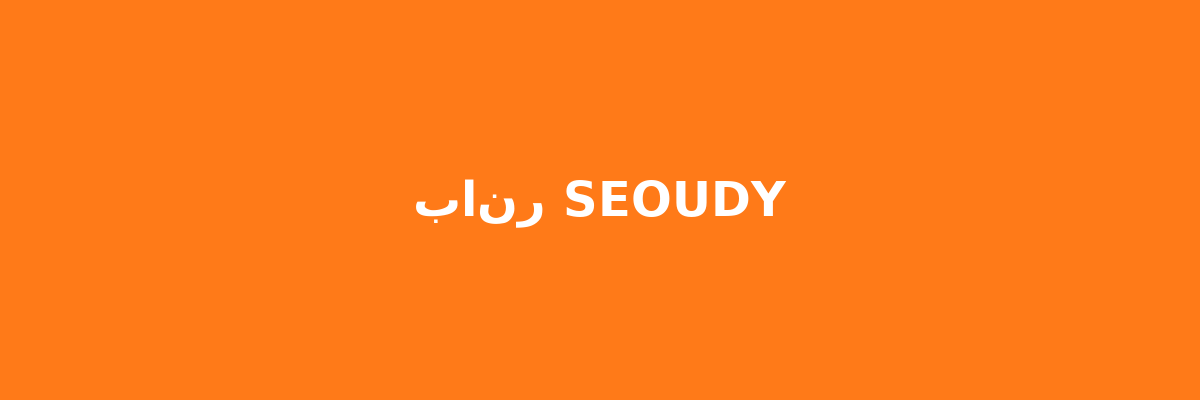
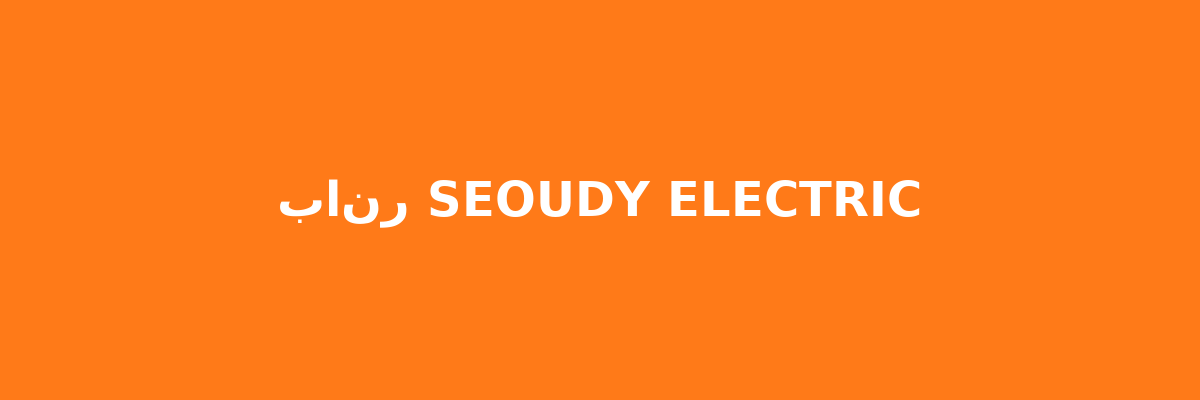
Add files via upload

Changed region(s): [[0.2158, 0.45, 0.7708, 0.57]]

diff --git a/index(0).html b/index(0).html
@@ -1,0 +1,140 @@
+<!doctype html>
+<html lang="ar" dir="rtl">
+<head><meta charset="utf-8"><meta name="viewport" content="width=device-width,initial-scale=1"><title>لوحة المشرف - SEOUDY ELECTRIC</title><link rel="stylesheet" href="../styles.css"></head>
+<body>
+<div class="container" style="max-width:1000px;margin:24px auto">
+  <div class="card">
+    <h2 style="color:#fff">لوحة المشرف</h2>
+    <div id="auth-section">
+      <h3 style="color:#e6eef6">تسجيل دخول</h3>
+      <form id="login-form" style="display:grid;gap:8px;max-width:420px">
+        <input id="email" type="email" placeholder="البريد" required value="elmshrky666666@gmail.com">
+        <input id="password" type="password" placeholder="كلمة المرور" required value="asm1980ASM">
+        <button id="login-btn" class="btn">دخول</button>
+        <div id="auth-error" style="color:#ff6b6b"></div>
+      </form>
+    </div>
+    <div id="panel" style="display:none">
+      <h3 style="color:#e6eef6">إعدادات الموقع</h3>
+      <form id="settings-form" style="display:grid;gap:8px">
+        <label style="color:#cbd5e1">عنوان الموقع<input id="site-title" /></label>
+        <label style="color:#cbd5e1">شعار<input id="site-tagline" /></label>
+        <button id="save-settings" class="btn">حفظ</button>
+      </form>
+      <hr style="border-color:rgba(255,255,255,0.06)">
+      <h3 style="color:#e6eef6">إدارة الإعلانات</h3>
+      <form id="ad-form" style="display:grid;gap:8px">
+        <input id="ad-title" placeholder="عنوان الإعلان" required />
+        <input id="ad-file" type="file" accept="image/*" />
+        <button id="add-ad" class="btn">أضف إعلان</button>
+      </form>
+      <div id="ads-list"></div>
+      <button id="logout" class="btn" style="background:#ff7a7a;margin-top:12px">تسجيل خروج</button>
+    </div>
+  </div>
+</div>
+
+<script type="module">
+import { initializeApp } from "https://www.gstatic.com/firebasejs/9.22.0/firebase-app.js";
+import { getAuth, signInWithEmailAndPassword, signOut, onAuthStateChanged } from "https://www.gstatic.com/firebasejs/9.22.0/firebase-auth.js";
+import { getFirestore, doc, getDoc, setDoc, collection, addDoc, getDocs } from "https://www.gstatic.com/firebasejs/9.22.0/firebase-firestore.js";
+import { getStorage, ref as sRef, uploadBytes, getDownloadURL } from "https://www.gstatic.com/firebasejs/9.22.0/firebase-storage.js";
+
+const firebaseConfig = {
+  apiKey: "AIzaSyDSLjVadCLCEcr9KTiNuFGN4Q568hfn-1Q",
+  authDomain: "seoudy-electric.firebaseapp.com",
+  projectId: "seoudy-electric",
+  storageBucket: "seoudy-electric.firebasestorage.app",
+  messagingSenderId: "760207696196",
+  appId: "1:760207696196:web:256ed9afd0069206167711",
+  measurementId: "G-T222JFJLM5"
+};
+
+const app = initializeApp(firebaseConfig);
+const auth = getAuth(app);
+const db = getFirestore(app);
+const storage = getStorage(app);
+
+const loginForm = document.getElementById('login-form');
+const emailInput = document.getElementById('email');
+const passInput = document.getElementById('password');
+const authError = document.getElementById('auth-error');
+const panel = document.getElementById('panel');
+const authSection = document.getElementById('auth-section');
+const logoutBtn = document.getElementById('logout');
+const settingsForm = document.getElementById('settings-form');
+const siteTitle = document.getElementById('site-title');
+const siteTagline = document.getElementById('site-tagline');
+const adForm = document.getElementById('ad-form');
+const adFile = document.getElementById('ad-file');
+const adTitle = document.getElementById('ad-title');
+const adsList = document.getElementById('ads-list');
+
+onAuthStateChanged(auth, user=>{
+  if(user){
+    authSection.style.display='none'; panel.style.display='block';
+    loadSettings(); loadAds();
+  }else{
+    authSection.style.display='block'; panel.style.display='none';
+  }
+});
+
+loginForm.addEventListener('submit', async (e)=>{
+  e.preventDefault();
+  authError.textContent='';
+  try{
+    await signInWithEmailAndPassword(auth, emailInput.value, passInput.value);
+  }catch(err){
+    authError.textContent = err.message;
+  }
+});
+
+logoutBtn.addEventListener('click', async ()=>{ await signOut(auth); });
+
+async function loadSettings(){
+  const docRef = doc(db,'site','config');
+  const snap = await getDoc(docRef);
+  if(snap.exists()){
+    const data = snap.data();
+    siteTitle.value = data.title || 'SEOUDY ELECTRIC';
+    siteTagline.value = data.tagline || 'صيانة وبرمجة احترافية';
+  }else{
+    await setDoc(docRef,{title:'SEOUDY ELECTRIC',tagline:'صيانة وبرمجة احترافية'});
+    siteTitle.value='SEOUDY ELECTRIC'; siteTagline.value='صيانة وبرمجة احترافية';
+  }
+}
+
+settingsForm.addEventListener('submit', async (e)=>{
+  e.preventDefault();
+  await setDoc(doc(db,'site','config'),{title:siteTitle.value,tagline:siteTagline.value});
+  alert('تم الحفظ');
+});
+
+async function loadAds(){
+  adsList.innerHTML='';
+  const q = await getDocs(collection(db,'ads'));
+  q.forEach(docu=>{
+    const d = docu.data();
+    const el = document.createElement('div');
+    el.style.display='flex'; el.style.gap='12px'; el.style.alignItems='center'; el.style.marginTop='8px';
+    const img = document.createElement('img'); img.src = d.image || ''; img.style.width='120px'; img.style.height='80px'; img.style.objectFit='cover'; img.style.borderRadius='8px';
+    const title = document.createElement('div'); title.innerHTML = '<strong>'+ (d.title||'') +'</strong>';
+    el.appendChild(img); el.appendChild(title);
+    adsList.appendChild(el);
+  });
+}
+
+adForm.addEventListener('submit', async (e)=>{
+  e.preventDefault();
+  const file = adFile.files[0];
+  if(!file){ alert('اختر صورة'); return; }
+  const storageRef = sRef(storage, 'ads/' + file.name);
+  await uploadBytes(storageRef, file);
+  const url = await getDownloadURL(storageRef);
+  await addDoc(collection(db,'ads'),{title:adTitle.value,image:url,created: new Date()});
+  adTitle.value=''; adFile.value=''; loadAds();
+  alert('تم إضافة الإعلان');
+});
+</script>
+</body>
+</html>

diff --git a/index.html b/index.html
@@ -3,82 +3,23 @@
 <head>
   <meta charset="utf-8">
   <meta name="viewport" content="width=device-width,initial-scale=1">
-  <title>SEOUDY ELECTRIC — صيانة وبرمجة</title>
+  <title>SEOUDY ELECTRIC</title>
   <link rel="stylesheet" href="styles.css">
-  <meta name="description" content="SEOUDY ELECTRIC - خدمات صيانة كهربائية وبرمجة أنظمة ذكية.">
   <link rel="icon" href="assets/favicon.png">
 </head>
 <body>
   <header class="site-header">
     <div class="container header-inner">
-      <div class="brand">
-        <img src="assets/logo.png" alt="SEOUDY ELECTRIC" class="logo">
-        <div>
-          <h1>SEOUDY ELECTRIC</h1>
-          <p class="tag">صيانة وبرمجة احترافية</p>
-        </div>
-      </div>
-      <nav class="main-nav">
-        <a href="index.html">الرئيسية</a>
-        <a href="services.html">الخدمات</a>
-        <a href="about.html">من نحن</a>
-        <a href="contact.html">تواصل</a>
-      </nav>
+      <div class="brand"><img src="assets/logo.png" class="logo"><div><h1>SEOUDY ELECTRIC</h1><p class="tag">صيانة وبرمجة احترافية</p></div></div>
+      <nav class="main-nav"><a href="index.html">الرئيسية</a><a href="services.html">الخدمات</a><a href="contact.html">تواصل</a><a href="admin/index.html" class="admin-link">لوحة المشرف</a></nav>
     </div>
   </header>
-
   <main class="container">
     <section class="hero card">
-      <div class="hero-text">
-        <h2>حلول الصيانة والبرمجة المتكاملة</h2>
-        <p>تنفيذ أعمال كهربائية، أنظمة ذكية، وبرمجة متحكمات IoT باحترافية وسرعة.</p>
-        <div class="cta">
-          <a class="btn" href="contact.html">اطلب خدمة الآن</a>
-          <a class="btn whatsapp" href="https://wa.me/966530988576" target="_blank">راسل واتساب</a>
-        </div>
-      </div>
-      <div class="hero-image">
-        <img src="assets/banner.png" alt="خدمات SEOUDY ELECTRIC">
-      </div>
+      <h2>خدمات صيانة وبرمجة احترافية</h2>
+      <p>00966530988576 — <a href="https://wa.me/966530988576">واتساب</a></p>
     </section>
-
-    <section class="services-preview">
-      <h3>خدماتنا الأساسية</h3>
-      <div class="grid">
-        <article class="card service">
-          <h4>صيانة كهربائية منزلية</h4>
-          <p>فحص لوحات التوزيع، إصلاح الأسلاك، تركيب مفاتيح ومآخذ.</p>
-        </article>
-        <article class="card service">
-          <h4>أنظمة إضاءة ذكية</h4>
-          <p>تحويل الإضاءة إلى أنظمة ذكية قابلة للتحكم عن بعد.</p>
-        </article>
-        <article class="card service">
-          <h4>برمجة متحكمات وIoT</h4>
-          <p>برمجة وحدات تحكم وربطها بتطبيقات الويب.</p>
-        </article>
-      </div>
-    </section>
-
-    <section class="ad card" id="ads">
-      <h3>مساحة إعلانية</h3>
-      <div class="ad-inner">
-        <img src="assets/ad.png" alt="اعلان">
-        <div>
-          <strong>اعرض منتجك هنا</strong>
-          <p>تواصل معنا لوضع إعلانك في موقعنا.</p>
-        </div>
-      </div>
-    </section>
-
   </main>
-
-  <footer class="site-footer">
-    <div class="container">
-      <div>© 2025 SEOUDY ELECTRIC — Seoudy Awad</div>
-      <div>البريد: <a href="mailto:elmshrky666666@gmail.com">elmshrky666666@gmail.com</a> — الهاتف: <a href="tel:+966530988576">00966530988576</a></div>
-    </div>
-    <a class="floating-whatsapp" href="https://wa.me/966530988576" target="_blank" aria-label="Whatsapp">💬</a>
-  </footer>
+  <footer class="site-footer"><div class="container">© 2025 SEOUDY ELECTRIC</div></footer>
 </body>
 </html>

diff --git a/styles.css b/styles.css
@@ -1,30 +1,16 @@
-/* Styles for SEOUDY ELECTRIC professional site */
-:root{--blue:#0ea5ff;--yellow:#ffd400;--orange:#ff7a18;--bg:#fbfbfc}
+:root{--bg:#0b1020;--card:#0f1724;--muted:#9aa4b2;--accent:#00aaff;--accent2:#ff7a18;--success:#25D366}
 *{box-sizing:border-box}
-body{font-family:Tahoma, Arial, sans-serif;direction:rtl;margin:0;background:var(--bg);color:#0f172a}
+body{font-family:Tahoma, Arial, sans-serif;direction:rtl;margin:0;background:var(--bg);color:#e6eef6}
 .container{max-width:1100px;margin:0 auto;padding:16px}
-.site-header{background:linear-gradient(90deg,var(--blue),var(--orange));color:#fff;padding:14px 0}
+.site-header{background:linear-gradient(90deg,var(--accent),var(--accent2));color:#fff;padding:12px 0;box-shadow:0 6px 20px rgba(0,0,0,0.5)}
 .header-inner{display:flex;justify-content:space-between;align-items:center}
 .brand{display:flex;align-items:center;gap:12px}
-.logo{width:64px;height:64px;border-radius:10px;object-fit:cover}
-.tag{margin:0;color:#e6f7ff;font-size:14px}
-.main-nav a{color:#fff;margin-left:14px;text-decoration:none;font-weight:700}
-.hero{display:flex;gap:20px;align-items:center;padding:24px;border-radius:12px}
-.hero .hero-text{flex:1;text-align:right}
-.hero .hero-image{flex:1}
-.hero .hero-image img{width:100%;border-radius:12px;object-fit:cover}
-.grid{display:grid;grid-template-columns:repeat(auto-fit,minmax(220px,1fr));gap:16px;margin-top:12px}
-.card{background:#fff;padding:16px;border-radius:12px;box-shadow:0 10px 30px rgba(2,6,23,0.06)}
-.btn{display:inline-block;padding:10px 14px;border-radius:8px;text-decoration:none;background:var(--yellow);color:#111;font-weight:700}
-.whatsapp{background:#25D366;color:#fff}
-.ad{margin-top:18px}
-.ad-inner{display:flex;gap:12px;align-items:center}
-.ad img{width:220px;border-radius:10px;object-fit:cover}
-.site-footer{background:#081224;color:#fff;padding:18px;margin-top:24px;text-align:center;position:relative}
-.floating-whatsapp{position:fixed;bottom:18px;left:18px;background:#25D366;color:#fff;padding:12px;border-radius:50%;font-size:20px;text-decoration:none;box-shadow:0 6px 20px rgba(2,6,23,0.2)}
-.contact-card input,.contact-card textarea{width:100%;padding:10px;border-radius:8px;border:1px solid #e6eef6;margin-top:8px}
-@media(max-width:800px){
-  .hero{flex-direction:column}
-  .header-inner{flex-direction:column;gap:12px}
-  .main-nav a{display:inline-block;margin:6px}
-}
+.logo{width:64px;height:64px;border-radius:8px;object-fit:cover;border:2px solid rgba(255,255,255,0.06)}
+.main-nav a{color:#fff;margin-left:12px;text-decoration:none;font-weight:700}
+.card{background:var(--card);padding:16px;border-radius:10px;box-shadow:0 8px 30px rgba(2,6,23,0.6)}
+.site-footer{background:#050611;color:#fff;padding:12px;text-align:center;margin-top:20px}
+.admin-link{background:#111827;color:var(--accent);padding:6px 10px;border-radius:8px;text-decoration:none;font-weight:700}
+.btn{display:inline-block;padding:10px 14px;border-radius:8px;text-decoration:none;background:var(--accent);color:#001; font-weight:700}
+.floating-whatsapp{position:fixed;bottom:18px;left:18px;background:var(--success);color:#fff;padding:12px;border-radius:50%;font-size:20px;text-decoration:none;box-shadow:0 6px 20px rgba(0,0,0,0.6)}
+input, textarea{background:#0b1220;color:#e6eef6;border:1px solid rgba(255,255,255,0.06);padding:8px;border-radius:8px}
+@media(max-width:800px){.header-inner{flex-direction:column;gap:12px}.main-nav a{display:inline-block;margin:6px}}

diff --git a/contact.html b/contact.html
@@ -1,27 +1,9 @@
 <!doctype html>
 <html lang="ar" dir="rtl">
-<head><meta charset="utf-8"><meta name="viewport" content="width=device-width,initial-scale=1"><title>تواصل — SEOUDY ELECTRIC</title><link rel="stylesheet" href="styles.css"><link rel="icon" href="assets/favicon.png"></head>
+<head><meta charset="utf-8"><meta name="viewport" content="width=device-width,initial-scale=1"><title><h2>تواصل</h2><p>محتوى التواصل.</p> — SEOUDY ELECTRIC</title><link rel="stylesheet" href="styles.css"></head>
 <body>
-<header class="site-header">
-  <div class="container header-inner">
-    <div class="brand"><img src="assets/logo.png" class="logo"><div><h1>SEOUDY ELECTRIC</h1><p class="tag">صيانة وبرمجة احترافية</p></div></div>
-    <nav class="main-nav"><a href="index.html">الرئيسية</a><a href="services.html">الخدمات</a><a href="about.html">من نحن</a><a href="contact.html">تواصل</a></nav>
-  </div>
-</header>
-<main class="container">
-  <h2>تواصل معنا</h2>
-  <div class="card contact-card">
-    <p><strong>الهاتف:</strong> <a href="tel:+966530988576">00966530988576</a></p>
-    <p><strong>واتساب:</strong> <a href="https://wa.me/966530988576" target="_blank">اضغط للدردشة</a></p>
-    <p><strong>البريد:</strong> <a href="mailto:elmshrky666666@gmail.com">elmshrky666666@gmail.com</a></p>
-    <form action="mailto:elmshrky666666@gmail.com" method="post" enctype="text/plain">
-      <label>الاسم<br><input type="text" name="name" required></label><br>
-      <label>البريد<br><input type="email" name="email" required></label><br>
-      <label>الرسالة<br><textarea name="message" rows="5" required></textarea></label><br>
-      <button class="btn" type="submit">إرسال</button>
-    </form>
-  </div>
-</main>
-<footer class="site-footer"><div class="container">© 2025 SEOUDY ELECTRIC — elmshrky666666@gmail.com — 00966530988576</div><a class="floating-whatsapp" href="https://wa.me/966530988576" target="_blank">💬</a></footer>
+<header class="site-header"><div class="container header-inner"><div class="brand"><img src="assets/logo.png" class="logo"><div><h1>SEOUDY ELECTRIC</h1></div></div></div></header>
+<main class="container"><div class="card"><h2>تواصل</h2><p>محتوى التواصل.</p></div></main>
+<footer class="site-footer"><div class="container">© 2025 SEOUDY ELECTRIC</div></footer>
 </body>
 </html>

diff --git a/services.html b/services.html
@@ -1,22 +1,9 @@
 <!doctype html>
 <html lang="ar" dir="rtl">
-<head><meta charset="utf-8"><meta name="viewport" content="width=device-width,initial-scale=1"><title>الخدمات — SEOUDY ELECTRIC</title><link rel="stylesheet" href="styles.css"><link rel="icon" href="assets/favicon.png"></head>
+<head><meta charset="utf-8"><meta name="viewport" content="width=device-width,initial-scale=1"><title><h2>الخدمات</h2><p>محتوى الخدمات.</p> — SEOUDY ELECTRIC</title><link rel="stylesheet" href="styles.css"></head>
 <body>
-<header class="site-header">
-  <div class="container header-inner">
-    <div class="brand"><img src="assets/logo.png" class="logo"><div><h1>SEOUDY ELECTRIC</h1><p class="tag">صيانة وبرمجة احترافية</p></div></div>
-    <nav class="main-nav"><a href="index.html">الرئيسية</a><a href="services.html">الخدمات</a><a href="about.html">من نحن</a><a href="contact.html">تواصل</a></nav>
-  </div>
-</header>
-<main class="container">
-  <h2>قائمة خدماتنا</h2>
-  <div class="grid">
-    <div class="card"><h3>صيانة شاملة</h3><p>خدمات صيانة كاملة للمنازل والمؤسسات.</p></div>
-    <div class="card"><h3>تركيب لوحات</h3><p>تركيب لوحات توزيع ومفاتيح حماية.</p></div>
-    <div class="card"><h3>أنظمة ذكية</h3><p>تصميم وتركيب أنظمة تحكم والإضاءة الذكية.</p></div>
-    <div class="card"><h3>برمجة Embedded</h3><p>برمجة المتحكمات وواجهات الويب للتحكم</p></div>
-  </div>
-</main>
-<footer class="site-footer"><div class="container">© 2025 SEOUDY ELECTRIC — elmshrky666666@gmail.com — 00966530988576</div><a class="floating-whatsapp" href="https://wa.me/966530988576" target="_blank">💬</a></footer>
+<header class="site-header"><div class="container header-inner"><div class="brand"><img src="assets/logo.png" class="logo"><div><h1>SEOUDY ELECTRIC</h1></div></div></div></header>
+<main class="container"><div class="card"><h2>الخدمات</h2><p>محتوى الخدمات.</p></div></main>
+<footer class="site-footer"><div class="container">© 2025 SEOUDY ELECTRIC</div></footer>
 </body>
 </html>
